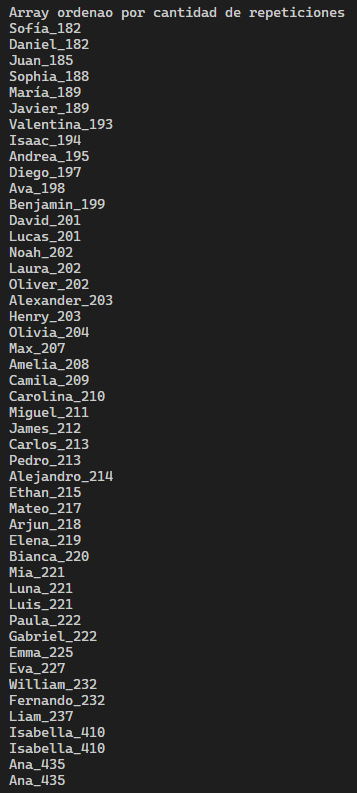
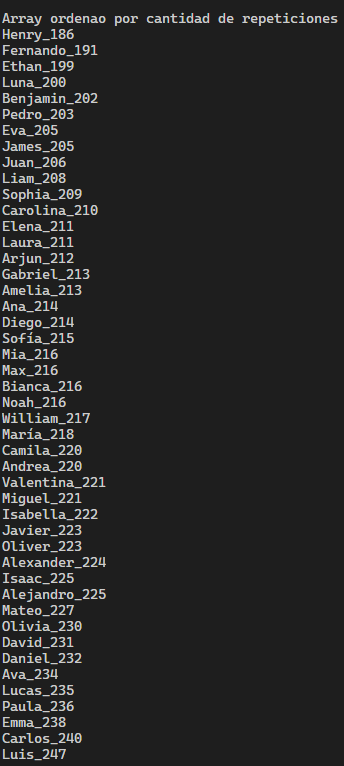
fix: :bug: arreglando repeticion de nombres punto 7

Changed region(s): [[0.0, 0.0, 0.9884, 1.0]]

diff --git a/js/components/ej7.js b/js/components/ej7.js
@@ -88,10 +88,10 @@ const ej6 = /*html*/`
 
         public static String[] generarArregloNombres(int cantidad) {
             String[] nombres = new String[cantidad];
-            String[] iniciales = { "Ana", "Luis", "María", "David", "Sofía", "Carlos", "Elena", "Alejandro", "Isabella",
+            String[] iniciales = { "Luis", "María", "David", "Sofía", "Carlos", "Elena", "Alejandro", "Isabella",
                     "Juan", "Valentina", "Andrea", "Pedro", "Camila", "Fernando", "Laura", "Diego", "Carolina", "Gabriel",
                     "Javier", "Ana", "Miguel", "Paula", "Max", "Bianca", "Daniel", "Isaac", "Olivia", "Ava", "Liam", "Eva",
-                    "Mia", "Sophia", "Amelia", "Isabella", "Luna", "Alexander", "Benjamin", "William", "Emma", "Oliver",
+                    "Mia", "Sophia", "Amelia", "Luna", "Alexander", "Benjamin", "William", "Emma", "Oliver",
                     "Noah", "Ethan", "Henry", "James", "Arjun", "Mateo", "Lucas" };
             Random rand = new Random();
             for (int i = 0; i < cantidad; i++) {
